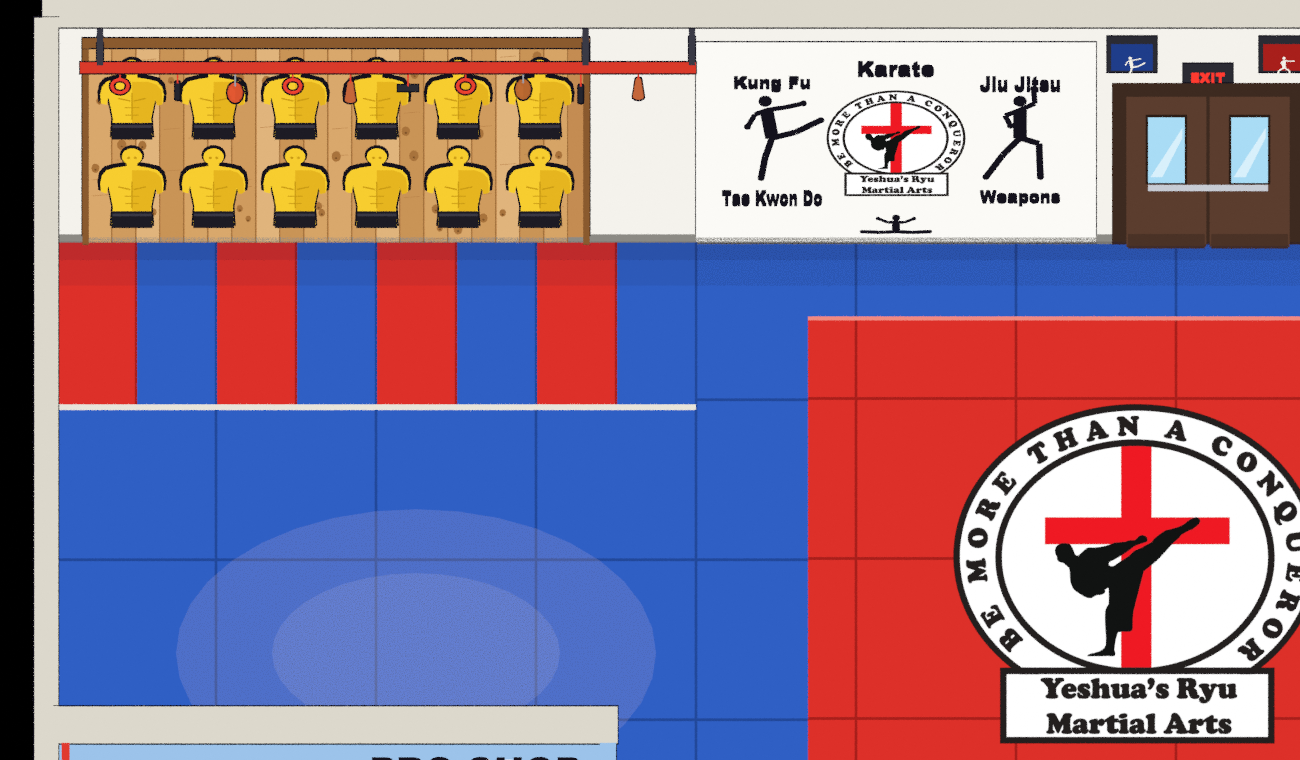
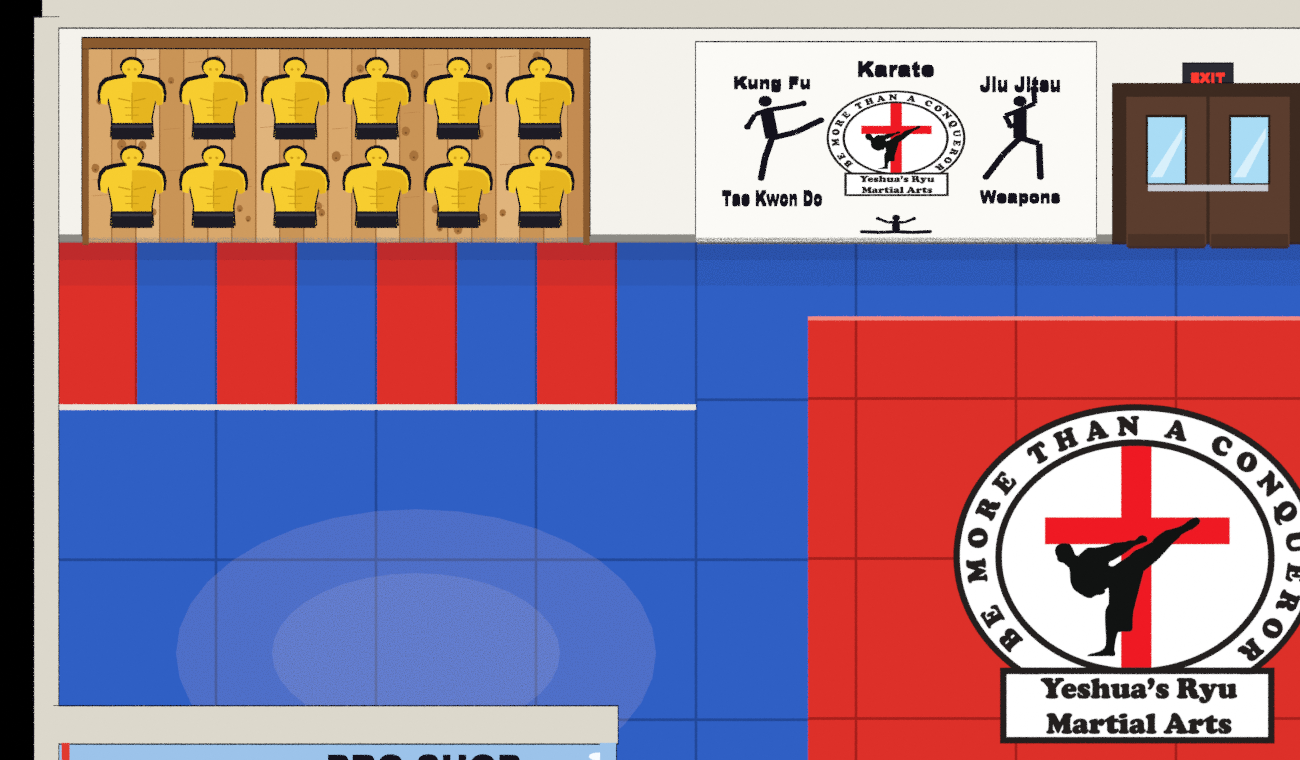
Action Zone inside v2: Jay's changes (no ninja rig, lion board, belt rack, couch, door posters or red shield; roomier pro shop; WELCOME mat)

diff --git a/incoming-art/claude-az-inside/source/build_action_zone_dojo.py b/incoming-art/claude-az-inside/source/build_action_zone_dojo.py
@@ -458,8 +458,9 @@ def scene_inside():
         B(x, RF - 0.6, 1.15, 0.08, 1.1, 2.3, "#5b3d2e", True, name="doorLeaf"); B(x, RF - 0.6, 1.55, 0.1, 0.62, 0.9, "#9fd0f0", False, name="doorGlass")
         B(x, RF - 0.6, 1.0, 0.11, 0.7, 0.06, "#c8ccd4", False, name="doorBar")
     grp("floor")
-    B(sum(LM.DOOR) / 2, RF - 1.3, 0.04, 2.2, 0.9, 0.04, "#3d2a20", True, name="welcomeMat"); B(sum(LM.DOOR) / 2, RF - 1.3, 0.065, 1.95, 0.68, 0.02, "#b8945a", False, name="welcomeMatInner")
-    for k in range(5): B(sum(LM.DOOR) / 2 - 0.8 + k * 0.4, RF - 1.3, 0.077, 0.18, 0.4, 0.004, "#9a7a48", False, name="matWeave")
+    B(sum(LM.DOOR) / 2, RF - 1.3, 0.04, 2.2, 0.9, 0.04, "#3d2a20", True, name="welcomeMat"); B(sum(LM.DOOR) / 2, RF - 1.3, 0.065, 1.95, 0.68, 0.02, "#5b4030", False, name="welcomeMatInner")
+    wt = text("welcomeText", "WELCOME", sum(LM.DOOR) / 2, RF - 1.3, 0.08, 0.3 * K, 1.55, "#e3c98f", 0.005, False)
+    wt.rotation_euler = (0, 0, 0); wt.location = G(sum(LM.DOOR) / 2, RF - 1.3, 0.08)
 
     # ======================= NORTH WALL =======================
     WF = RN
@@ -496,23 +497,6 @@ def scene_inside():
         wpoly(circ(x - s * 0.04, zc + s * 0.83, s * 0.02, 8), "#c99a14", 4, "face"); wpoly(circ(x + s * 0.04, zc + s * 0.83, s * 0.02, 8), "#c99a14", 4, "face")
     for row, z0 in enumerate((1.85, 0.5)):
         for k in range(6): yellow_man(a + 0.55 + k * 1.02, z0, 1.02)
-    # ---- the ninja rig: a red strap along the top of the wall with rings, grips and balls hanging from it
-    def rig_item(x, kind, k):
-        grp("target-wall" if x < LM.TARGET[1] + 0.2 else "walls")
-        rr_ = WF + 0.45; top = 3.3; zb = 3.12 - 0.05 * (k % 3)
-        T(x, rr_, zb, top, 0.012, 0.012, "#e8402f" if kind != "ball" else "#9aa0aa", False, 6, name="rigStrap")
-        if kind == "ring": add("rigRing", torus(G(x, rr_, zb - 0.1), 0.1, 0.022, 18, 6, (90, 0, 0)), "#e8402f")
-        elif kind == "ball": E(x, rr_, zb - 0.1, 0.1, 0.1, 0.1, ("#d9542f", "#b5662f")[k % 2], True, 12, 8, name="rigBall")
-        elif kind == "cone": T(x, rr_, zb - 0.26, zb, 0.07, 0.035, "#c4663a", True, 12, name="rigCone")
-        elif kind == "bar": B(x, rr_, zb - 0.03, 0.26, 0.04, 0.045, "#2b2b33", True, name="rigBar")
-        elif kind == "grip": T(x, rr_, zb - 0.24, zb, 0.03, 0.03, "#25252e", True, 8, name="rigGrip")
-    grp("target-wall")
-    B(3.5, WF + 0.45, 3.3, 6.4, 0.08, 0.07, "#d93a2a", True, name="rigBeamA")
-    grp("walls")
-    B(7.3, WF + 0.45, 3.3, 1.4, 0.08, 0.07, "#d93a2a", True, name="rigBeamB")
-    for x in (0.55, 6.62, 7.95): B(x, WF + 0.22, 3.3, 0.08, 0.46, 0.1, "#3a3a45", True, name="rigBracket")
-    KINDS = ("ring", "grip", "ball", "ring", "cone", "bar", "ring", "ball", "grip", "cone", "ring", "bar", "ball", "ring", "grip", "cone", "ring")
-    for k, kind in enumerate(KINDS[:10]): rig_item(0.8 + k * 0.72, kind, k)
     # ---- mural: the school mark with the five styles
     grp("walls")
     a, b = LM.MURAL; cx = (a + b) / 2
@@ -539,9 +523,6 @@ def scene_inside():
         Wd(x, 0.18, 0.96, 0.3, "#4a3226", 0.1, 0.01, False, name="kickPlate")
     Wd(cx, 1.05, 1.5, 0.06, "#c8ccd4", 0.11, 0.03, False, name="pushBar")
     Wd(cx, 2.72, 0.62, 0.22, "#2b2b33", 0.04, 0.05, True, name="exitBox"); text("exitText", "EXIT", cx, WF + 0.1, 2.72, 0.13, 0.42, "#ff3b30", 0.02, False)
-    for k, x in enumerate((cx - 0.95, cx + 0.95)):
-        Wd(x, 3.0, 0.62, 0.48, "#2b2b33", 0.035, 0.05, True, name="posterFrame"); Wd(x, 3.0, 0.52, 0.38, ("#1f3d8a", "#a81f1b")[k], 0.075, 0.02, False, name="poster")
-        for poly_ in figure(("kick", "punch")[k], x, 2.97, 0.22): wpoly(poly_, "#f4f1e8", 6, "posterFig")
     # ---- flag, black belts on hooks, white cube shelf with cones and bins
     grp("walls")
     a, b = LM.FLAG; cx = (a + b) / 2
@@ -585,9 +566,7 @@ def scene_inside():
         B(cxm + 0.03 * (k % 2), rcm, ZM + 0.11 + 0.21 * k, b - a, rb - ra, 0.2, c, True, bevel=0.04, name=f"crashMat{k}")
         B(cxm + 0.03 * (k % 2), rb - 0.01, ZM + 0.11 + 0.21 * k, 0.5, 0.02, 0.05, "#1d1b24", False, name="crashHandle")
         B(cxm + 0.03 * (k % 2) - (b - a) / 2 + 0.06, rcm, ZM + 0.11 + 0.21 * k, 0.03, rb - ra, 0.2, "#1d4aa0", False, name="crashFold")
-    B(cxm - 0.45, rcm + 0.05, ZM + 0.98, 1.0, 0.95, 0.2, "#d92b25", True, bevel=0.05, name="kickShield")
     B(cxm + 0.55, rcm - 0.05, ZM + 0.98, 0.95, 0.9, 0.2, "#2a5db0", True, bevel=0.05, name="kickShield2")
-    B(cxm - 0.45, rcm + 0.05, ZM + 1.09, 0.6, 0.5, 0.01, "#f4f1e8", False, name="shieldBadge")
     shadow(cxm, rb, 1.4, 0.25, ZM + 0.05, 0.22, "crashShadow")
     # ---- heavy bags: freestanding, filled base, collar, tall bag, white band (no brand words)
     for (x, r, c) in LM.BAGS:
@@ -662,39 +641,31 @@ def scene_inside():
     # ======================= WEST WING: PRO SHOP =======================
     grp("wing-west")
     WF = RW; a, b = LM.WEST_WING
-    for k in range(70):          # sponge-painted clouds on the sky-blue wall
-        x = 0.15 + rnd.random() * 6.7; z = 0.25 + rnd.random() * 3.0; rd = 0.06 + rnd.random() * 0.16
+    CLEAR = ((0.55, 3.55, 0.55, 2.95), (3.6, 5.0, 1.75, 2.75), (5.3, 6.7, 0.85, 2.25), (3.3, 5.9, 2.8, 3.4))   # grid, shirts, window, sign
+    for k in range(90):          # sponge-painted clouds on the sky-blue wall, kept off the shop fittings
+        x = 0.25 + rnd.random() * 6.6; z = 0.25 + rnd.random() * 3.0; rd = 0.06 + rnd.random() * 0.14
+        if any(x0 - rd * 1.4 < x < x1 + rd * 1.4 and z0 - rd < z < z1 + rd for x0, x1, z0, z1 in CLEAR): continue
         wpoly(circ(x, z, rd, 14, 1.4, 0.75), rnd.choice(("#e9f2fb", "#d7e7f8", "#f7fbff")), 0, "cloud")
     Wd(0.12, 1.7, 0.1, 3.4, "#e03a30", 0.02, 0.02, False, name="redStripe")
-    # lion picture
-    Wd(0.88, 2.15, 0.96, 1.22, "#7a5320", 0.03, 0.05, True, name="lionFrame"); Wd(0.88, 2.15, 0.84, 1.1, "#d9b26a", 0.08, 0.02, False, name="lionPic")
-    wpoly([(0.47, 1.6), (1.29, 1.6), (1.29, 1.95), (0.47, 1.95)], "#c08a3e", 1, "savanna")
-    wpoly(circ(0.88, 2.2, 0.3, 22, 1.0, 1.1), "#7a3f12", 2, "mane"); wpoly(circ(0.88, 2.2, 0.24, 22, 1.0, 1.08), "#9a5420", 3, "maneIn")
-    wpoly(circ(0.88, 2.18, 0.15, 18, 1.0, 1.15), "#e6ac5c", 4, "lionFace"); wpoly(circ(0.88, 2.1, 0.06, 12, 1.2, 0.8), "#f3d3a0", 5, "muzzle")
-    for dx in (-0.055, 0.055): wpoly(circ(0.88 + dx, 2.24, 0.018, 8), "#2a1a0e", 6, "lionEye")
-    wpoly([(0.86, 2.13), (0.9, 2.13), (0.88, 2.1)], "#3a2210", 6, "lionNose")
-    Wd(0.88, 1.48, 0.5, 0.08, "#c9a63a", 0.085, 0.01, False, name="lionPlate")
-    # gear grid walls with uniform bags, sparring gear, belts
-    Wd(3.45, 1.85, 2.5, 2.0, "#30333d", 0.03, 0.03, True, name="gridWall")
-    for k in range(11): Wd(3.45, 0.88 + k * 0.195, 2.5, 0.012, "#5a5f6e", 0.06, 0.01, False, name="gridH")
-    for k in range(12): Wd(2.25 + k * 0.218, 1.85, 0.012, 2.0, "#5a5f6e", 0.06, 0.01, False, name="gridV")
-    Wd(3.45, 2.62, 2.4, 0.03, "#8a8f9c", 0.07, 0.02, False, name="peg1"); Wd(3.45, 1.82, 2.4, 0.03, "#8a8f9c", 0.07, 0.02, False, name="peg2")
-    for k in range(5):
-        x = 2.45 + k * 0.48
-        Wd(x, 2.32, 0.4, 0.52, "#fbfbf8", 0.08, 0.03, True, name="uniformBag"); imgplane(LOGO, "proLogo", x, 0.24, 0.24 * LOGO_AR, row=WF + 0.115, zc=2.3)
-        Wd(x, 1.52, 0.4, 0.48, "#25252e" if k % 2 == 0 else "#3a3a45", 0.08, 0.03, True, name="padBag"); imgplane(LOGO, "proLogo2", x, 0.22, 0.22 * LOGO_AR, row=WF + 0.115, zc=1.52)
-    for k, c in enumerate(("#d92b25", "#d92b25", "#2f6fd6", "#d92b25")): E(2.5 + k * 0.6, WF + 0.12, 1.05, 0.13, 0.06, 0.11, c, True, 10, 6, name="hangGlove")
-    Wd(1.75, 1.3, 0.78, 1.2, "#30333d", 0.03, 0.03, True, name="beltRack")
-    for k, c in enumerate(list(BELT.values())[:7]): Wd(1.75, 1.8 - k * 0.165, 0.64, 0.08, c, 0.08, 0.02, False, name="beltRackBar")
+    # gear grid wall: uniform bags (top), pad bags (middle), gloves on hooks (bottom), roomy spacing
+    GX = 2.05
+    Wd(GX, 1.75, 2.7, 2.1, "#30333d", 0.03, 0.03, True, name="gridWall")
+    for k in range(11): Wd(GX, 0.75 + k * 0.2, 2.7, 0.012, "#5a5f6e", 0.06, 0.01, False, name="gridH")
+    for k in range(13): Wd(GX - 1.32 + k * 0.22, 1.75, 0.012, 2.1, "#5a5f6e", 0.06, 0.01, False, name="gridV")
+    for k in range(4):
+        x = GX - 0.96 + k * 0.64
+        Wd(x, 2.4, 0.42, 0.52, "#fbfbf8", 0.08, 0.03, True, name="uniformBag"); imgplane(LOGO, "proLogo", x, 0.24, 0.24 * LOGO_AR, row=WF + 0.115, zc=2.38)
+        Wd(x, 1.62, 0.42, 0.48, "#25252e" if k % 2 == 0 else "#3a3a45", 0.08, 0.03, True, name="padBag"); imgplane(LOGO, "proLogo2", x, 0.22, 0.22 * LOGO_AR, row=WF + 0.115, zc=1.62)
+        E(x, WF + 0.12, 1.0, 0.13, 0.06, 0.11, ("#d92b25", "#2f6fd6", "#d92b25", "#d92b25")[k], True, 10, 6, name="hangGlove")
     # t-shirts on a rail
-    Wd(5.05, 2.62, 0.95, 0.04, "#25252e", 0.07, 0.02, False, name="hangRail")
-    for k, x in enumerate((4.8, 5.3)):
+    Wd(4.3, 2.62, 1.2, 0.04, "#25252e", 0.07, 0.02, False, name="hangRail")
+    for k, x in enumerate((3.98, 4.62)):
         wpoly([(x - 0.1, 2.58), (x + 0.1, 2.58), (x + 0.26, 2.45), (x + 0.2, 2.33), (x + 0.13, 2.38), (x + 0.13, 1.9), (x - 0.13, 1.9), (x - 0.13, 2.38), (x - 0.2, 2.33), (x - 0.26, 2.45)], "#25252e", 2, "tee")
         imgplane(LOGO, "teeLogo", x, 0.16, 0.16 * LOGO_AR, row=WF + 0.1, zc=2.25)
     # red-framed shop window
-    Wd(6.3, 1.55, 1.05, 1.15, "#e03a30", 0.03, 0.05, True, name="shopWinFrame"); Wd(6.3, 1.55, 0.85, 0.95, "#cfe9f7", 0.08, 0.02, False, name="shopWinGlass")
-    Wd(6.3, 1.55, 0.04, 0.95, "#f4f1e8", 0.1, 0.01, False, name="shopWinMull"); Wd(6.05, 1.65, 0.26, 0.32, "#fbfbf8", 0.1, 0.01, False, name="shopNote")
-    text("proShopSign", "PRO SHOP", 5.25, WF + 0.1, 3.02, 0.42, 2.6, INK, 0.06, True)
+    Wd(6.0, 1.55, 1.05, 1.15, "#e03a30", 0.03, 0.05, True, name="shopWinFrame"); Wd(6.0, 1.55, 0.85, 0.95, "#cfe9f7", 0.08, 0.02, False, name="shopWinGlass")
+    Wd(6.0, 1.55, 0.04, 0.95, "#f4f1e8", 0.1, 0.01, False, name="shopWinMull"); Wd(5.75, 1.65, 0.26, 0.32, "#fbfbf8", 0.1, 0.01, False, name="shopNote")
+    text("proShopSign", "PRO SHOP", 4.6, WF + 0.1, 3.08, 0.38, 2.4, INK, 0.06, True)
     # pro counter: glass display case with sparring gear and weapons
     grp("pro-counter")
     shadow(3.6, 11.95, 1.9, 0.3, 0.045, 0.22, "counterShadow")
@@ -750,20 +721,6 @@ def scene_inside():
     B(b - 0.2, WF + 0.2, 1.3, 0.16, 0.04, 0.04, "#25252e", False, name="extHandle")
     Wd(b - 0.2, 1.75, 0.12, 0.42, "#d92b25", 0.06, 0.02, False, name="extSign"); wpoly([(b - 0.24, 1.68), (b - 0.16, 1.68), (b - 0.2, 1.6)], "#ffffff", 8, "extArrow")
     # ======================= LOBBY =======================
-    grp("bench")      # teal metal couch with striped cushions
-    shadow(2.4, 16.15, 1.1, 0.3, 0.035, 0.22, "couchShadow")
-    for x in (1.6, 3.2):
-        T(x, 16.05, 0.0, 0.3, 0.03, 0.03, "#2a8a98", False, 6, name="couchLeg"); T(x, 15.75, 0.0, 0.3, 0.03, 0.03, "#2a8a98", False, 6, name="couchLeg")
-    B(2.4, 15.9, 0.3, 1.8, 0.5, 0.08, "#3fb8c9", True, name="couchFrame")
-    B(2.4, 15.68, 0.7, 1.8, 0.08, 0.8, "#3fb8c9", True, bevel=0.03, name="couchBack")
-    for x in (1.5, 3.3): B(x, 15.9, 0.52, 0.08, 0.5, 0.42, "#3fb8c9", True, name="couchArm")
-    for sx_ in (1.95, 2.85):
-        B(sx_, 15.95, 0.4, 0.84, 0.44, 0.12, "#f4f1e8", True, bevel=0.03, name="cushion")
-        for k, c in enumerate(("#e03a30", "#f08a24", "#f5c542", "#3f9c4a", "#2f6fd6", "#e03a30", "#f08a24")):
-            B(sx_ - 0.36 + k * 0.12, 15.95, 0.465, 0.06, 0.42, 0.006, c, False, name="cushionStripe")
-    B(2.4, 15.74, 0.85, 1.6, 0.06, 0.4, "#f4f1e8", True, bevel=0.03, name="backCushion")
-    for k, c in enumerate(("#e03a30", "#f08a24", "#f5c542", "#3f9c4a", "#2f6fd6") * 3):
-        if k < 13: B(1.7 + k * 0.117, 15.71, 0.85, 0.055, 0.005, 0.38, c, False, name="backStripe")
     grp("trash-can")
     shadow(17.3, 17.62, 0.32, 0.2, 0.035, 0.2, "binShadow")
     T(17.3, 17.5, 0, 0.78, 0.25, 0.27, "#2b2b33", True, 14, name="trashCan", round_ground=True)

diff --git a/incoming-art/claude-az-inside/source/make_game_inside.py b/incoming-art/claude-az-inside/source/make_game_inside.py
@@ -33,7 +33,6 @@ SPR = {
  "bag-red":        ("bag-red",        "prop",      (25.2, 4.23), (24.7, 25.7, 3.37, 4.23), 4.23,   True,  "heavy bag, branded red (DECIDE item, see README)."),
  "gear-box":       ("gear-box",       "prop",      (13.2, 9.95), (9.6, 16.8, 8.6, 9.95), 9.95,  True,  "the red gear-bag box with a 2.6-tile gap at each end onto the mat. Openings face the lobby (south)."),
  "seats":          ("seats",          "prop",      (13.5, 14.7), (8.95, 18.05, 10.2, 14.7), 14.7, True, "parent stadium seating, 3 tiers of 8 seats facing the mat, with the end steps. One sprite so the tiers never fight over depth."),
- "bench":          ("bench",          "prop",      (2.4, 16.15), (1.5, 3.3, 15.65, 16.15), 16.15, False, "waiting bench against the lobby's west side."),
  "plant":          ("plant",          "prop",      (10.6, 17.75), (10.35, 10.85, 17.25, 17.75), 17.75, False, "potted plant by the door."),
  "trash-can":      ("trash-can",      "prop",      (17.3, 17.77), (17.03, 17.57, 17.23, 17.77), 17.77, False, "bin by the door."),
  "whiteboard":     ("whiteboard",     "prop",      (21.3, 6.4),  (20.6, 22.0, 6.2, 6.4), 6.4,   False, "stand whiteboard (blank, no writing)."),
@@ -141,7 +140,7 @@ block("pro-counter", (1.9, 5.3, 11.05, 11.95), "P"); block("gear-box", LM.CUBBY,
 block("seats", (8.95, 18.05, 10.2, 14.7), "S", "parent seating decks and steps")
 for (bx, br, nm) in LM.BAGS: block("bag-" + nm, (bx - .5, bx + .5, br - .43, br + .43), "P", "heavy bag base")
 block("crash-mats", LM.CRASH, "P"); block("whiteboard", (20.6, 22.0, 6.2, 6.4), "P")
-block("bench", (1.5, 3.3, 15.65, 16.15), "P"); paint({(10, 17)}, "P"); blockers.append({"id": "plant", "rect": [10.35, 10.85, 17.25, 17.75], "cells": [[10, 17]], "why": "pot"})
+paint({(10, 17)}, "P"); blockers.append({"id": "plant", "rect": [10.35, 10.85, 17.25, 17.75], "cells": [[10, 17]], "why": "pot"})
 paint({(17, 17)}, "P"); blockers.append({"id": "trash-can", "rect": [17.03, 17.57, 17.23, 17.77], "cells": [[17, 17]], "why": "bin"})
 # side walls are outside the 27 columns (the room frame draws them as thin strips)
 leaf_rects = [{"id": "door-leaf-west", "rect": [12.36, 12.44, 17.25, 18.35]}, {"id": "door-leaf-east", "rect": [14.56, 14.64, 17.25, 18.35]}]
